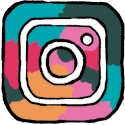
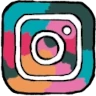
Contact images downsized. App fontface updated

diff --git a/src/App/App.css b/src/App/App.css
@@ -1,6 +1,7 @@
 @font-face {
 	font-family: brasley;
 	src: url('../fonts/brasley-medium.ttf');
+	font-display: swap;
   }
   
 
@@ -11,5 +12,5 @@
 }
 
 h1,h2,h3,p {
-  font-family: brasley;
+  font-family: brasley, sans-serif;
 }
